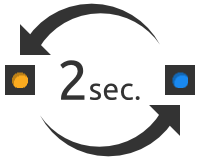
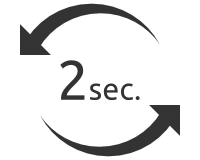
Swapping inside the menu

Changed region(s): [[0.81, 0.4062, 0.99, 0.5938], [0.0, 0.4062, 0.18, 0.5938]]

diff --git a/js/states/Menu.js b/js/states/Menu.js
@@ -41,12 +41,22 @@ SB2.Menu.prototype.create = function () {
     }
 
     // Add mute button
-    this.initMusic();
+    this.muteButton = new SB2.MuteButton(this.game);
 
-    // Pause the game because we are handling the menu with HTML
-    // elements
-    this.game.pause = true;
+    this.swapSound = this.game.add.audio("swap");
 
+    // Add two cubes
+    this.cube = [new SB2.Cube(this.game, 320, 480, undefined, 1),
+                 new SB2.Cube(this.game, 480, 480, undefined, 0)];
+    this.cube.forEach(function (cube) {cube.body.allowGravity = false;});
+
+    
+    this.eventManager = new SB2.EventManager();
+    this.eventManager.on(SB2.EVENTS.SWAP, this.onSwap, this);
+
+    this.swapper = new SB2.Swapper(this.game, this.eventManager);
+    this.swapper.start();
+    
     // Set the menu overlay visible
     this.setVisibility('visible');
 
@@ -57,6 +67,7 @@ SB2.Menu.prototype.create = function () {
 };
 
 SB2.Menu.prototype.update = function () {
+    this.swapper.handleSwap();
 };
 
 SB2.Menu.onPlay = function () {
@@ -64,36 +75,11 @@ SB2.Menu.onPlay = function () {
     if(this.seed.value != '') {            
         SB2.seed = this.seed.value;
     }
+
     // hide menu
     this.setVisibility('hidden');
     // Start the game
     this.game.state.start('Play');
-};
-
-SB2.Menu.prototype.initMusic = function () {
-    function muteFunction () {
-        if(this.game.sound.mute) {
-            // Demute
-            // Update button icon
-            this.muteButton.frame = 0;
-            this.game.sound.mute = false;
-            SB2.muted = false;
-        } else {
-            // Mute
-            this.muteButton.frame = 1;        
-            this.game.sound.mute = true;
-            SB2.muted = true;
-        }
-    }
-
-    // Init music
-    this.music = this.game.add.audio('music');
-
-    // Init mute button
-    this.muteButton = this.game.add.button(0, 0, 'mute', muteFunction, this);
-    this.muteButton.frame = SB2.muted ? 1 : 0;
-    this.muteButton.alpha = 0.5;
-    this.muteButton.fixedToCamera = true;
 };
 
 SB2.Menu.prototype.setVisibility = function (visibility) {
@@ -101,4 +87,9 @@ SB2.Menu.prototype.setVisibility = function (visibility) {
     for(var i = 0, length = this.overlay.length; i < length; i++) {
         this.overlay[i].style.visibility = visibility;
     }
+};
+
+SB2.Menu.prototype.onSwap = function () {
+    SB2.Cube.swap(this.cube[0], this.cube[1]);
+    //this.swapSound.play("", 0, 0.4, false); // TODO
 };

diff --git a/js/states/Play.js b/js/states/Play.js
@@ -32,6 +32,9 @@ SB2.Play.prototype.preload = function () {};
 SB2.Play.prototype.create = function () {    
     this.game.SB2GameState = this.STARTING;
     this.eventManager = new SB2.EventManager();
+    // Add a mute button
+    this.muteButton = new SB2.MuteButton(this.game);
+
     /* Instanciate all the workers (components) */
     this.workers.manager = new SB2.Manager(this.workers, this.game, this.eventManager);
     this.workers.decorator = new SB2.Decorator(this.workers, this.game);
@@ -71,7 +74,7 @@ SB2.Play.prototype.updateRunning = function () {
     this.workers.supervisor.updateBiomes();
 
     /* Control swap */
-    this.workers.swapper.handleSwap(this.workers.manager);
+    this.workers.swapper.handleSwap();
     
     /* Tell the cameraman to follow players position */
     this.workers.cameraman.update();

diff --git a/js/workers/Swapper.js b/js/workers/Swapper.js
@@ -62,9 +62,8 @@ SB2.Swapper.prototype.start = function(){
 // manager will handle it for cube swap, and another component may
 // handle it to create the on screen swap effect.
 /** Measure time and swap controls if needed. Also in charge of
- * displaying timing indicators
- * @param {Manager} manager Reference to the cube manager */
-SB2.Swapper.prototype.handleSwap = function(manager){
+ * displaying timing indicators */
+SB2.Swapper.prototype.handleSwap = function(){
     // Check the timer 
     if(this.swap.timer.elapsed() > SB2.Swapper.INDIC_PERIOD*this.swap.count) {
         // If it's the last indicator

diff --git a/js/utils/EventManager.js b/js/utils/EventManager.js
@@ -25,8 +25,11 @@ SB2.EventManager.prototype = {
      * @param {Event} event The related event
      */
     trigger: function(event) {
-        this.listeners[event.id].forEach(function(listener){
-            listener.handler.call(listener.caller, event);
-        });
+        var listeners = this.listeners[event.id];
+        if(listeners) {
+            listeners.forEach(function(listener){
+                listener.handler.call(listener.caller, event);
+            });
+        }
     }
 };

diff --git a/js/states/Loader.js b/js/states/Loader.js
@@ -34,6 +34,7 @@ SB2.Loader.prototype.preload = function () {
     this.game.load.spritesheet('death', SB2.GRAPHIC_ASSETS + 'death.png', 10, 10, 9);
     this.game.load.spritesheet('spirits', SB2.GRAPHIC_ASSETS + 'spirits.png', 16, 16, 2);
     this.game.load.audio('music', SB2.SOUND_ASSETS + 'square-run.ogg');
+    this.game.load.audio('swap', SB2.SOUND_ASSETS + 'swap.ogg');
 
     this.game.sound.mute = SB2.muted;
 
